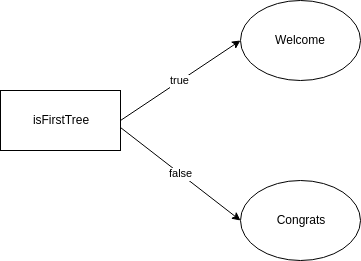
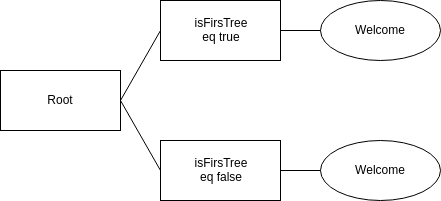
Doc,Test :
* Fix the test following the architecture change
* Fix the Doc wit the architecture changes

diff --git a/tree_test.go b/tree_test.go
@@ -114,7 +114,6 @@ func TestTree_SimpleTest_With_Error_Config(t *testing.T) {
 
 	//Act
 	result, err := tr.ResolveJSON(jsonRequest, f)
-	fmt.Println(result)
 	//Assert
 	assert.Error(t, err, "Resolve should not return an error when the type of the request is the not the same as the one defined on tree")
 	assert.Equal(t, "isTest", result.Key)
@@ -185,48 +184,45 @@ func ExampleLoadTree() {
 			"parent_id": 1,
 			"key": "sayHello",
 			"operator": "eq",
-			"value": false
-		},
-		{
-			"id": 3,
-			"name": "GoodBye",
-			"parent_id": 2,
-			"value": "fallback"
-		},
-		{
-			"id": 4,
-			"parent_id": 1,
-			"key": "sayHello",
-			"operator": "eq",
 			"value": true
 		},
 		{
+			"id": 3,
+			"parent_id": 1,
+			"key": "sayHello",
+			"operator": "eq",
+			"value": false
+		},
+		{
+			"id": 4,
+			"parent_id": 3,
+			"Name": "Goodbye"
+		},
+		{
 			"id": 5,
-			"parent_id": 4,
+			"parent_id": 2,
 			"key": "gender",
 			"operator": "eq",
 			"value": "F"
 		},
 		{
 			"id": 6,
-			"name": "Hello Miss",
 			"parent_id": 5,
-			"value": "fallback"
+			"Name": "Hello Miss"
 		},
 		{
 			"id": 7,
-			"parent_id": 4,
+			"parent_id": 2,
 			"value": "fallback"
 		},
 		{
 			"id": 8,
-			"name": "Hello",
 			"parent_id": 7,
-			"value": "fallback"
+			"Name": "Hello"
 		},
 		{
 			"id": 9,
-			"parent_id": 4,
+			"parent_id": 2,
 			"key": "gender",
 			"operator": "eq",
 			"value": "M"
@@ -241,8 +237,7 @@ func ExampleLoadTree() {
 		{
 			"id": 11,
 			"parent_id": 10,
-			"name": "Hello Sir",
-			"value": "fallback"
+			"Name": "Hello Sir"
 		},
 		{
 			"id": 12,
@@ -254,8 +249,7 @@ func ExampleLoadTree() {
 		{
 			"id": 13,
 			"parent_id": 12,
-			"name": "Hello dude",
-			"value": "fallback"
+			"Name": "Hello dude"
 		}
 	]`)
 
@@ -282,5 +276,5 @@ func ExampleLoadTree() {
 	v, _ := t.Resolve(request)
 
 	fmt.Println(v.Name)
-	// output: Hello dude
+	// output : Hello dude
 }

diff --git a/example/main.go b/example/main.go
@@ -18,48 +18,45 @@ func main() {
 				"parent_id": 1,
 				"key": "sayHello",
 				"operator": "eq",
-				"value": false
-			},
-			{
-				"id": 3,
-				"name": "GoodBye",
-				"parent_id": 2,
-				"value": "fallback"
-			},
-			{
-				"id": 4,
-				"parent_id": 1,
-				"key": "sayHello",
-				"operator": "eq",
 				"value": true
 			},
 			{
+				"id": 3,
+				"parent_id": 1,
+				"key": "sayHello",
+				"operator": "eq",
+				"value": false
+			},
+			{
+				"id": 4,
+				"parent_id": 3,
+				"Name": "Goodbye"
+			},
+			{
 				"id": 5,
-				"parent_id": 4,
+				"parent_id": 2,
 				"key": "gender",
 				"operator": "eq",
 				"value": "F"
 			},
 			{
 				"id": 6,
-				"name": "Hello Miss",
 				"parent_id": 5,
-				"value": "fallback"
+				"Name": "Hello Miss"
 			},
 			{
 				"id": 7,
-				"parent_id": 4,
+				"parent_id": 2,
 				"value": "fallback"
 			},
 			{
 				"id": 8,
-				"name": "Hello",
 				"parent_id": 7,
-				"value": "fallback"
+				"Name": "Hello"
 			},
 			{
 				"id": 9,
-				"parent_id": 4,
+				"parent_id": 2,
 				"key": "gender",
 				"operator": "eq",
 				"value": "M"
@@ -74,8 +71,7 @@ func main() {
 			{
 				"id": 11,
 				"parent_id": 10,
-				"name": "Hello Sir",
-				"value": "fallback"
+				"Name": "Hello Sir"
 			},
 			{
 				"id": 12,
@@ -87,8 +83,7 @@ func main() {
 			{
 				"id": 13,
 				"parent_id": 12,
-				"name": "Hello dude",
-				"value": "fallback"
+				"Name": "Hello dude"
 			}
 		]`)
 

diff --git a/comparator.go b/comparator.go
@@ -31,8 +31,9 @@ func compare(requests map[string]interface{}, node *Tree, operators ...map[strin
 	if node == nil {
 		return nil, ErrNoNode
 	}
+
 	// Check if it is a fallback value
-	if v, ok := node.Value.(string); ok && v == FallbackType {
+	if v, ok := node.Value.(string); (ok && v == FallbackType) || len(node.Operator) == 0 {
 		return node, nil
 	}
 

diff --git a/comparator_test.go b/comparator_test.go
@@ -650,9 +650,8 @@ var comparett = []struct {
 		err:     nil,
 	},
 	{
-		v2:      &Tree{Value: 123},
+		v2:      &Tree{Value: 123, Operator: "abc"},
 		message: "Compare should always return false, when the operator is not supported",
-		op:      "abc",
 		result:  false,
 		err:     ErrOperator,
 	},

diff --git a/README.md b/README.md
@@ -11,21 +11,33 @@ DTree allow you to define an Decision Tree in json
 ```json
 {
 				"id": 1,
-				"name": "isFirstTree"
+				"name": "Root"
 			},
 			{
 				"id": 2,
-				"name": "Welcome",
-				"parent_id": 1,
+				"name": "IsFirstTree",
+                "parent_id": 1,
+                "key":"isFirstTree",
 				"operator": "eq",
 				"value": true
 			},
 			{
 				"id": 3,
-				"name": "Congrats",
-				"parent_id": 1,
+				"name": "IsNotTheFirstTree",
+                "parent_id": 1,
+                "key":"isFirstTree",
 				"operator": "eq",
 				"value": false
+            },
+            {
+				"id": 4,
+				"name": "Welcome",
+                "parent_id": 2,
+            },
+            {
+				"id": 5,
+				"name": "Congrats",
+                "parent_id": 3,
 			}
 
 ```
@@ -99,8 +111,9 @@ You can define your own custom operators (on the example I do a len of an array 
 
 ```golang
 f := func(t *TreeOptions) {
-    t.Operators = make(map[string]func(v1 interface{}, v2 *dtree.Tree) (bool, error))
-    t.Operators["len"] = func(v1 interface{}, v2 *dtree.Tree) (bool, error) {
+    t.Operators = make(map[string]dtree.Operator)
+    t.Operators["len"] = func(requests map[string]interface{}, node *Tree) (*Tree, error) {
+        if v1, ok := requests[node.Key]; ok {
             switch t1 := v1.(type) {
             case []interface{}:
                 if t2, ok := v2.Value.(float64); ok {
@@ -110,11 +123,12 @@ f := func(t *TreeOptions) {
                     return nil, nil
                 }
 
-                return nil, dtree.ErrBadType
+                return nil, ErrBadType
             default:
-                return nil, dtree.ErrNotSupportedType
+                return nil, ErrNotSupportedType
             }
         }
+        return nil, nil
     }
 }
 ```
@@ -131,7 +145,7 @@ f := func(t *TreeOptions) {
 }
 ```
 
-We can also define a fallback value. It means on this case, that if all others path are in false, it go to this one.
+We can also define a fallback value. It means on this case, that if all others path are in false, it goes to this one.
 
 ```json
 "value": "fallback"
@@ -142,6 +156,8 @@ We can also set an order, to define the order of the evaluation (but of course f
 ```json
 "order": "1"
 ```
+
+The Node Tree as a parameter content, it's a interface{}, that allow you to put whatever you want.
 
 
 
